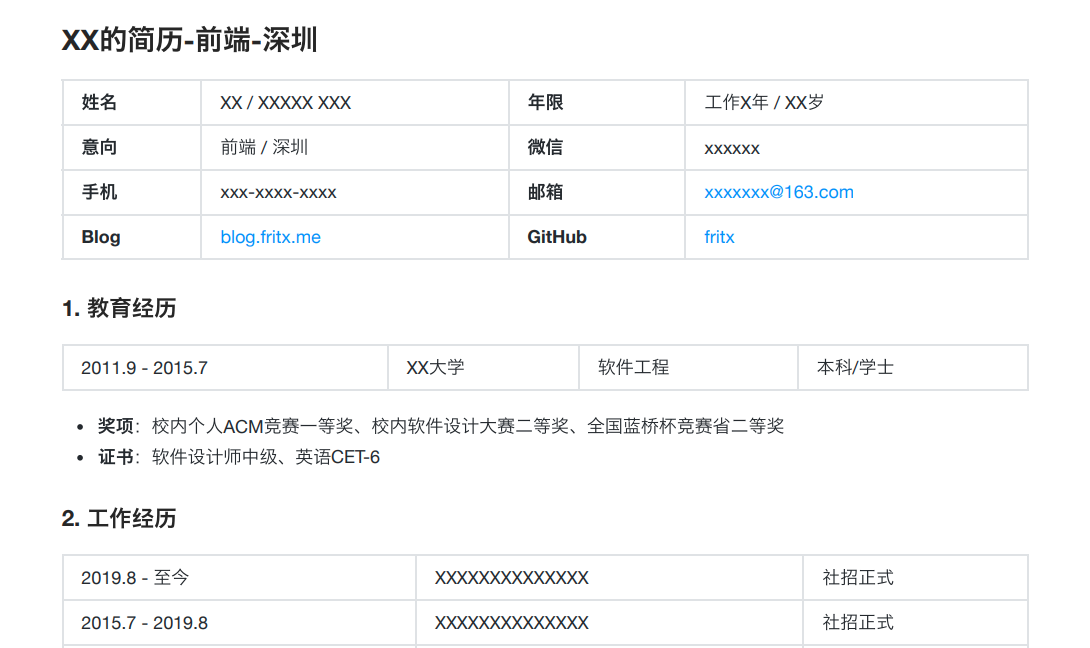
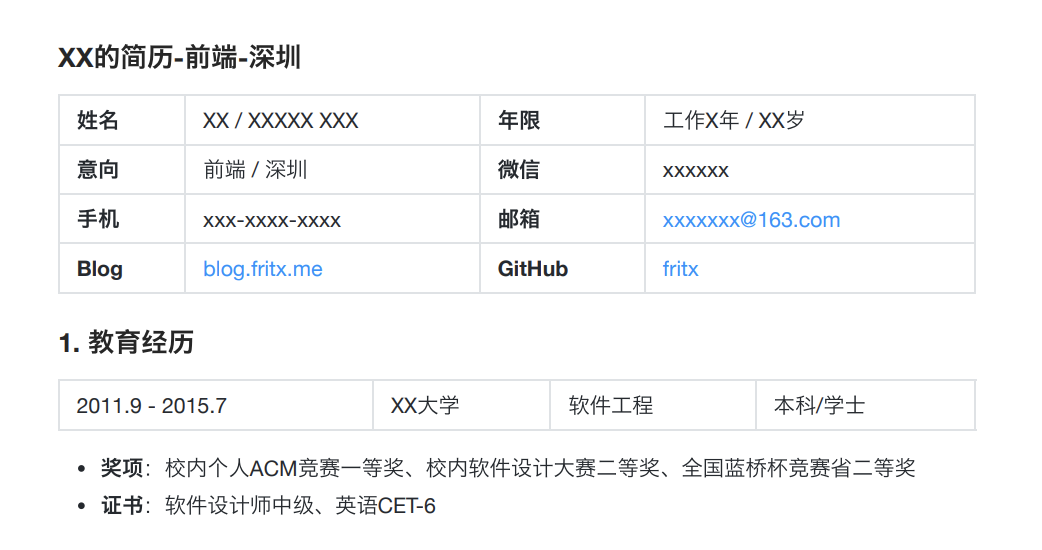
feat: enlarge font-size in resume.md for wide-screen & printing only

diff --git a/public/code/resume.md b/public/code/resume.md
@@ -1,16 +1,6 @@
 ### XX的简历-前端-深圳
 
-<style>
-table, tbody { width: 100% }
-.hide-th table th { display: none }
-.meta-table tr td:nth-child(1), .meta-table tr td:nth-child(3) { font-weight: bold }
-.cols { max-width: 620px; font-size: 0; display: flex; justify-content: space-between }
-.cols-2 * { width: 49% }
-.cols-3 * { width: 31% }
-.cols-4 * { width: 23% }
-</style>
-
-<small>
+<!-- Cmd(Ctrl)+P -> 打印 -> 可导出 PDF格式 -->
 
 <div class="hide-th meta-table">
 
@@ -120,4 +110,16 @@ table, tbody { width: 100% }
 <img src="https://fritx.me/resume/WechatIMG7.jpeg">
 </div>
 
-</small>
+<style>
+@media screen (max-width: 540px) {
+  #mdPreview { font-size: 80% }
+}
+.vditor-reset h1, .vditor-reset h2 { border: none }
+table, tbody { width: 100% }
+.hide-th table th { display: none }
+.meta-table tr td:nth-child(1), .meta-table tr td:nth-child(3) { font-weight: bold }
+.cols { max-width: 620px; font-size: 0; display: flex; justify-content: space-between }
+.cols-2 * { width: 49% }
+.cols-3 * { width: 31% }
+.cols-4 * { width: 23% }
+</style>

diff --git a/README.md b/README.md
@@ -10,6 +10,8 @@ Visit: https://coldemo.github.io/
 - [ ] faked location/window, cookie/storage partition, markdown anchor
 - [ ] tag-filter/btn-back/reset/export/upload/fullscreen/popstate
 - [ ] lang rb/go/java/dart/kotlin, mjs-import/vite
+- [ ] dat.gui, btn-print/export
+- [x] resume.md, print.css
 - [x] crank-jsx, vue-jsx, ts/tsx, py, vue, md, add/removeRendering
 - [x] error-handling, assetsNode, load-parallel
 - [x] gh-pages, lang js/jsx, react/vue, umd-hack
